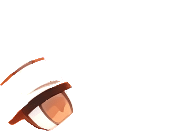
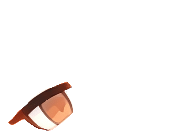
fix(狐狐形态): 眨眼真的闭上了——眼珠从 head.png 拆出来，眉毛不再跟着飞
上一版只压扁 eyes.png 那层，主人一眼看出「只有睫毛动了」。原因：深色眼珠其实烤在
head.png 里（左眼中心 601 深色像素、右眼 521），eyes.png 只是叠在上面的虹膜/高光/睫毛。

① tools/fox-eye-pupil.py：把 head.png 里眼珠那部分原样抠成 pupil-L/R.png（用 eyes.png 的
   眼珠形状外扩 4px 限定范围，避免误伤头部轮廓线之类的深色笔画），head-base.png 把抠走的
   2303 个像素用**框外一圈的肤色**往里推着补上。校验：head-base + 两颗眼珠 与原 head.png
   只差 3 个像素（AA 边缘），即睁眼画面不变。
   （顺带修掉补色 BFS 从画面边界无限扩散的死循环）
② tools/fox-eye-split.py 改成输出 eye-L/eye-R（只留眼珠+虹膜）和 eye-strokes（眉毛睫毛，
   静止不动）—— 眉毛跟着眨眼飞下去会很怪。
③ pet.html：.fx-head 换 head-base.png，紧跟 pupil-L/R，eye-strokes 叠在眼睛上层；
   眨眼时 pupils 压到 scaleY(.1)、eyes 压到 .12，闭眼画面 = 肤色 + 压在盖上的睫毛线。

真机（同一窗口 frame 前后两张对比，无绿幕）：睁眼左/右深色 249/304 → 闭眼 91/92，
剩下的就是睫毛线；上一版同样测法闭眼时几乎不降。
head.png / eyes.png 保留作拆分源文件，不再挂进 DOM。

Changed region(s): [[0.0, 0.4275, 0.25, 0.6718], [0.1667, 0.6107, 0.3333, 0.7328]]

diff --git a/app/src/main/assets/pet.html b/app/src/main/assets/pet.html
@@ -771,11 +771,13 @@
     .fx-ear-L { left: 0px; top: 137px; width: 142px; height: 176px; }
     .fx-ear-L-base { left: 0px; top: 137px; width: 142px; height: 176px; }   /* 耳根补片，坐标必须和 ear-L 完全一致 */
     .fx-fur-under-ear-L { left: 45px; top: 202px; width: 105px; height: 121px; }
-    .fx-head { left: 127px; top: 126px; width: 251px; height: 268px; }
+    .fx-head { left: 127px; top: 126px; width: 251px; height: 268px; }   /* head-base.png：眼珠已抠掉 */
+    .fx-pupil-L { left: 161px; top: 274px; width: 66px; height: 51px; }
+    .fx-pupil-R { left: 258px; top: 228px; width: 75px; height: 52px; }
     .fx-part25 { left: 196px; top: 264px; width: 139px; height: 72px; }
     .fx-mouth { left: 252px; top: 300px; width: 26px; height: 19px; }
     .fx-layer13 { left: 70px; top: 58px; width: 126px; height: 116px; }
-    .fx-eye-L, .fx-eye-R { left: 154px; top: 192px; width: 180px; height: 131px; }   /* 左右眼拆成两张，位置与原 eyes.png 完全一致 */
+    .fx-eye-L, .fx-eye-R, .fx-eye-strokes { left: 154px; top: 192px; width: 180px; height: 131px; }   /* 位置与原 eyes.png 完全一致 */
     .fx-bangs { left: 63px; top: 82px; width: 375px; height: 293px; }
     .fx-ear-R { left: 210px; top: 0px; width: 188px; height: 165px; }
     .fx-fur-under-ear-R { left: 263px; top: 76px; width: 92px; height: 98px; }
@@ -783,13 +785,20 @@
     .fx-hair-tuft { left: 150px; top: 170px; width: 104px; height: 45px; }
 
   /* 小动画 */
-  /* 眨眼（2026-10-24 重做）：画稿里两只眼睛是斜着的（右眼在上、左眼偏下 40 多 px），
-     原来整张眼睛图层绕「图层中心」压扁，闭眼时两条线会飘到脸中间。现在拆成左右眼两张，
-     各自绕自己的**眼底**压扁（46,130 和 134,88 是用 tools/fox-eye-split.py 量出来的），
-     闭眼线就落在各自的下眼睑上。开合由 JS 的 .blink 类驱动（尊重「眨眼开关」和睡眠状态）。 */
+  /* 眨眼（2026-10-24 重做两轮）：画稿里两只眼睛是斜着的（右眼在上、左眼偏下 40 多 px），
+     原来整张眼睛图层绕「图层中心」压扁，闭眼时两条线会飘到脸中间。现在三件事：
+       ① eyes.png 拆成 eye-L / eye-R（眼珠+虹膜，各自绕自己的眼底压扁，眼底坐标 46,130 / 134,88）
+          和 eye-strokes（眉毛睫毛，静止不动 —— 眉毛跟着飞会很怪）；
+       ② 深色眼珠其实烤在 head.png 里，所以拆出 pupil-L / pupil-R，head-base.png 用肤色补上，
+          眼珠跟着一起压扁，闭眼时脸上不会留两颗睁着的眼珠；
+       ③ 开合由 JS 的 .blink 类驱动（尊重「眨眼开关」和睡眠状态），与方块形态共用。 */
   .fx-eye-L { transform-origin: 46px 130px; transition: transform .09s ease-out; }
   .fx-eye-R { transform-origin: 134px 88px;  transition: transform .09s ease-out; }
+  /* 眼珠（从 head-base.png 里抠出来的那两颗）也得跟着压扁，不然底下眼珠不动、
+     看起来只有睫毛在动。眉毛/睫毛在 eye-strokes.png，静止不动。 */
+  .fx-pupil-L, .fx-pupil-R { transform-origin: center bottom; transition: transform .09s ease-out; }
   .pet.blink .fx-eye-L, .pet.blink .fx-eye-R { transform: scaleY(.12); }
+  .pet.blink .fx-pupil-L, .pet.blink .fx-pupil-R { transform: scaleY(.1); }
   .fx-tail { transform-origin: 12% 8%; animation: foxTail 3.6s ease-in-out infinite; }
   @keyframes foxTail { 0%,100% { transform: rotate(0deg); } 50% { transform: rotate(-6deg); } }
   /* 耳根补片（2026-10-24）：左耳绕耳根转的时候，耳朵内侧会离开头发，露出一条背景色的缝。
@@ -1147,12 +1156,15 @@
       <img class="fx fx-ear-L-base" src="fox/ear-L-base.png" alt="">
       <img class="fx fx-ear-L" src="fox/ear-L.png" alt="">
       <img class="fx fx-fur-under-ear-L" src="fox/fur-under-ear-L.png" alt="">
-      <img class="fx fx-head" src="fox/head.png" alt="">
+      <img class="fx fx-head" src="fox/head-base.png" alt="">
+      <img class="fx fx-pupil-L" src="fox/pupil-L.png" alt="">
+      <img class="fx fx-pupil-R" src="fox/pupil-R.png" alt="">
       <img class="fx fx-part25" src="fox/part25.png" alt="">
       <img class="fx fx-mouth" src="fox/mouth.png" alt="">
       <img class="fx fx-layer13" src="fox/layer13.png" alt="">
       <img class="fx fx-eye-L" src="fox/eye-L.png" alt="">
       <img class="fx fx-eye-R" src="fox/eye-R.png" alt="">
+      <img class="fx fx-eye-strokes" src="fox/eye-strokes.png" alt="">
       <img class="fx fx-bangs" src="fox/bangs.png" alt="">
       <img class="fx fx-ear-R" src="fox/ear-R.png" alt="">
       <img class="fx fx-fur-under-ear-R" src="fox/fur-under-ear-R.png" alt="">

diff --git a/tools/fox-eye-pupil.py b/tools/fox-eye-pupil.py
@@ -1,0 +1,147 @@
+#!/usr/bin/env python3
+"""把烤在 head.png 里的眼珠拆出来（眨眼用）
+
+背景：狐狐的深色眼珠画在 head.png 上（eyes.png 只是叠在上面的虹膜/高光/睫毛）。
+只压扁 eyes.png 那层的话，底下的眼珠一动不动 —— 看起来就像「只有睫毛在动」。
+
+做法：
+    pupil-L/R.png = 眼珠包围盒里、head.png 上偏深的那部分原样抠出来
+    head-base.png = head.png，把抠走的地方用**框外一圈的肤色**往里推着补上
+因为抠走的像素在眼珠层里一比一盖回去，睁眼时画面和原来完全一样；
+只有眨眼那一瞬间眼珠跟着压扁，露出补好的肤色 + 压在盖上的睫毛线。
+
+用法：
+    python3 tools/fox-eye-pupil.py            # 生成 head-base.png / pupil-L.png / pupil-R.png
+    python3 tools/fox-eye-pupil.py --check    # 只打印会抠掉多少像素，不写文件
+"""
+import os
+import sys
+from collections import deque
+
+from PIL import Image, ImageFilter
+
+HERE = os.path.dirname(os.path.abspath(__file__))
+FOX = os.path.join(HERE, "..", "app", "src", "main", "assets", "fox")
+EYE_BOXES = {          # eyes.png 里的眼珠包围盒（fox-eye-split.py 的连通域结果）
+    "L": (8, 81, 72, 130),
+    "R": (106, 37, 179, 88),
+}
+EYES_ORIGIN = (154, 192)      # .fx-eye-* 在狐坐标里的位置
+HEAD_ORIGIN = (127, 126)      # .fx-head 在狐坐标里的位置
+MARGIN = 10            # 眼珠包围盒外扩（把睫毛底座也算进来）
+DARK_LUM = 150         # 亮度低于这个算「眼珠的一部分」
+GUIDE_GROW = 4         # 只在 eyes.png 眼珠形状外扩这么多 px 的范围内抠（避免误伤轮廓线/其它深色笔画）
+
+
+def guide_mask(head_size):
+    """eyes.png 里两颗眼珠的形状，映射到 head 坐标系并外扩 —— 用来限定抠图范围"""
+    g = Image.new("L", head_size, 0)
+    eyes = Image.open(os.path.join(FOX, "eyes.png")).convert("RGBA")
+    a = eyes.split()[3]
+    for tag, (x0, y0, x1, y1) in EYE_BOXES.items():
+        blob = Image.new("L", eyes.size, 0)
+        src, dst = a.load(), blob.load()
+        for y in range(y0, y1 + 1):
+            for x in range(x0, x1 + 1):
+                if src[x, y] > 60:
+                    dst[x, y] = 255
+        dx = EYES_ORIGIN[0] - HEAD_ORIGIN[0]
+        dy = EYES_ORIGIN[1] - HEAD_ORIGIN[1]
+        g.paste(blob, (dx, dy), blob)
+    return g.filter(ImageFilter.MaxFilter(GUIDE_GROW * 2 + 1))
+
+
+def boxes_in_head():
+    dx = EYES_ORIGIN[0] - HEAD_ORIGIN[0]
+    dy = EYES_ORIGIN[1] - HEAD_ORIGIN[1]
+    out = {}
+    for tag, (x0, y0, x1, y1) in EYE_BOXES.items():
+        out[tag] = (x0 + dx - MARGIN, y0 + dy - MARGIN, x1 + dx + MARGIN, y1 + dy + MARGIN)
+    return out
+
+
+def inpaint(head, holes):
+    """把 holes（head 坐标集合）用框外一圈的颜色往里推着补上"""
+    hp, ha = head.load(), head.split()[3].load()
+    HW, HH = head.size
+    color = {}
+    q = deque()
+    for x, y in holes:
+        for nx, ny in ((x + 1, y), (x - 1, y), (x, y + 1), (x, y - 1)):
+            if 0 <= nx < HW and 0 <= ny < HH and (nx, ny) not in holes and ha[nx, ny] > 128:
+                color[(nx, ny)] = hp[nx, ny]
+                q.append((nx, ny))
+    seen = set(color)
+    while q:
+        cx, cy = q.popleft()
+        for nx, ny in ((cx + 1, cy), (cx - 1, cy), (cx, cy + 1), (cx, cy - 1)):
+            # 只往「要补的洞」里推进；不加这个判断会从画面边界无限扩散出去
+            if (nx, ny) not in holes or (nx, ny) in seen:
+                continue
+            seen.add((nx, ny))
+            color[(nx, ny)] = color[(cx, cy)]
+            q.append((nx, ny))
+    out = head.copy()
+    op = out.load()
+    missing = 0
+    for x, y in holes:
+        c = color.get((x, y))
+        if c is None:
+            missing += 1
+            continue
+        op[x, y] = (c[0], c[1], c[2], 255)
+    return out, missing
+
+
+def main():
+    check_only = "--check" in sys.argv
+    head = Image.open(os.path.join(FOX, "head.png")).convert("RGBA")
+    hp, ha = head.load(), head.split()[3].load()
+    boxes = boxes_in_head()
+    guide = guide_mask(head.size).load()
+
+    holes = {}
+    for tag, (x0, y0, x1, y1) in boxes.items():
+        pts = []
+        for y in range(y0, y1 + 1):
+            for x in range(x0, x1 + 1):
+                if ha[x, y] > 128 and guide[x, y] > 0:
+                    r, g, b, _ = hp[x, y]
+                    if (r + g + b) / 3 < DARK_LUM:
+                        pts.append((x, y))
+        holes[tag] = pts
+        print(f"眼{tag}: head 坐标框 {boxes[tag]}，判为眼珠的像素 {len(pts)}")
+    if check_only:
+        return 0
+
+    # 眼珠层：只留自己那部分，裁到包围盒（同一只眼的其它部件不掺进来）
+    for tag, pts in holes.items():
+        if not pts:
+            print(f"⚠ 眼{tag} 没找到眼珠像素")
+            continue
+        xs = [p[0] for p in pts]; ys = [p[1] for p in pts]
+        bx0, by0, bx1, by1 = min(xs), min(ys), max(xs), max(ys)
+        w, h = bx1 - bx0 + 1, by1 - by0 + 1
+        img = Image.new("RGBA", (w, h), (0, 0, 0, 0))
+        ip = img.load()
+        for x, y in pts:
+            ip[x - bx0, y - by0] = hp[x, y]
+        path = os.path.join(FOX, f"pupil-{tag}.png")
+        img.save(path, optimize=True)
+        print(f"  写入 {path} {os.path.getsize(path)} bytes（{w}x{h}，"
+              f"CSS left {bx0 + HEAD_ORIGIN[0]}px top {by0 + HEAD_ORIGIN[1]}px，眼底 y={by1}）")
+
+    all_holes = set()
+    for pts in holes.values():
+        all_holes.update(pts)
+    base, missing = inpaint(head, all_holes)
+    if missing:
+        print(f"⚠ {missing} 个补色像素没找到参照")
+    path = os.path.join(FOX, "head-base.png")
+    base.save(path, optimize=True)
+    print(f"写入 {path} {os.path.getsize(path)} bytes（抠掉 {len(all_holes)} 个像素并补上肤色）")
+    return 0
+
+
+if __name__ == "__main__":
+    sys.exit(main())

diff --git a/tools/fox-eye-split.py b/tools/fox-eye-split.py
@@ -1,16 +1,22 @@
 #!/usr/bin/env python3
-"""把 eyes.png 拆成左右眼两张（眨眼用）
+"""把 eyes.png 拆成「眼珠两张 + 眉毛睫毛一张」（眨眼用）
 
 为什么要拆：眨眼是竖向压扁。原来整张眼睛图层只绕「图层中心」压扁，可画稿里两只眼睛
 是斜着的（右眼在上、左眼偏下 40 多 px），一压扁两条闭眼线就飘到脸中间，左眼还会往上跳。
 
-做法：按连通域整块分配 —— 每一块（眼睛本体、睫毛、眉毛、高光）都整块归给离它最近的
-那只眼睛，绝不把一笔切成两半。输出两张同尺寸（180x131）的图，各自只留自己那部分，
-这样 CSS 里位置不用改，只把 transform-origin 指到自己眼底。
+做法：按连通域分组 —— 两个最大的连通域就是眼珠，其余（眉毛、睫毛、高光碎片）统一进
+eye-strokes.png 保持静止不动；绝不把一笔切成两半。
+
+为什么眉毛要单独拆出来：眨眼时眉毛不该跟着飞（真狐狸/真人眨眼眉毛基本不动），
+原来整层一起压扁，眉毛会被甩下去一大截，看着像「只有睫毛在动」。
+
+⚠ 注意：**深色眼珠其实烤在 head.png 里**（左眼中心 601 个深色像素、右眼 521 个），
+eyes.png 只是叠在上面的虹膜/高光/睫毛。所以光压扁这层眨眼是压不闭的，得配
+eye-lid-L/R（肤色盖片，见 tools/fox-eye-lid.py）把那两颗眼珠盖住。
 
 用法：
-    python3 tools/fox-eye-split.py           # 生成 eye-L.png / eye-R.png 并打印 transform-origin
-    python3 tools/fox-eye-split.py --check   # 只打印分配结果，不写文件
+    python3 tools/fox-eye-split.py           # 生成 eye-L/eye-R/eye-strokes 并打印 transform-origin
+    python3 tools/fox-eye-split.py --check   # 只打印分组结果，不写文件
 """
 import os
 import sys
@@ -96,15 +102,28 @@ def main():
     if check_only:
         return 0
 
+    # ① 眼珠：每只只留主连通域
     for k, fname in (("L", "eye-L.png"), ("R", "eye-R.png")):
         out = Image.new("RGBA", im.size, (0, 0, 0, 0))
         src, dst = im.load(), out.load()
-        for _, pts in groups[k]:
+        for x, y in groups[k][0][1]:
+            dst[x, y] = src[x, y]
+        path = os.path.join(FOX, fname)
+        out.save(path, optimize=True)
+        print("写入", path, os.path.getsize(path), "bytes")
+
+    # ② 眉毛/睫毛等小部件：合成一张静止图层
+    strokes = Image.new("RGBA", im.size, (0, 0, 0, 0))
+    src, dst = im.load(), strokes.load()
+    kept = 0
+    for k in ("L", "R"):
+        for _, pts in groups[k][1:]:
             for x, y in pts:
                 dst[x, y] = src[x, y]
-        dst_path = os.path.join(FOX, fname)
-        out.save(dst_path, optimize=True)
-        print("写入", dst_path, os.path.getsize(dst_path), "bytes")
+                kept += 1
+    path = os.path.join(FOX, "eye-strokes.png")
+    strokes.save(path, optimize=True)
+    print(f"写入 {path} {os.path.getsize(path)} bytes（{kept}px 眉毛/睫毛，保持静止）")
     return 0
 
 
